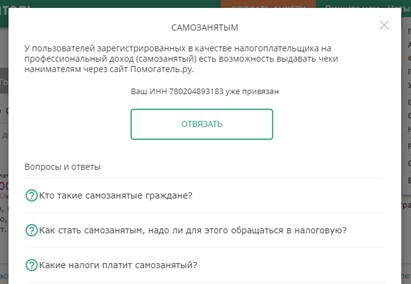
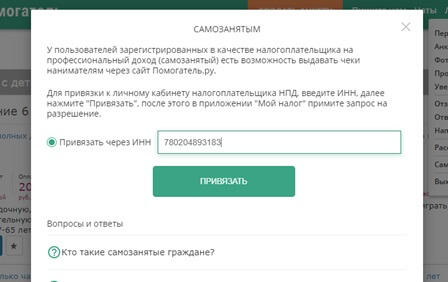
fix fns

Changed region(s): [[0.0, 0.0, 1.0, 1.0], [0.4088, 0.0851, 0.5839, 0.1135], [0.1168, 0.9929, 0.146, 1.0]]

diff --git a/example/fns/index.html b/example/fns/index.html
@@ -79,11 +79,12 @@
             </div>
             <div class="container-content">
                 <img src="img/fns1.jpg" alt="">
+                <img src="img/fns2.jpg" alt="">
             </div>
         </div>
         <div class="container">
             <div class="container-content order-2">
-                <img src="img/fns2.jpg" alt="">
+                <img src="img/fns3.jpg" alt="">
             </div>
             <div class="container-content order-1">
                 <p class="sub-title ">Регистрация завершена, осталось выдать чек:</p>
@@ -235,7 +236,7 @@
             </div>
             <div class="faq__block">
                 <div class="faq__question">
-                    <span class="icons icons--quest"></span> Самозанятые теперь должны сдвать отчеты в налоговую?
+                    <span class="icons icons--quest"></span> Самозанятые теперь должны сдавать отчеты в налоговую?
                 </div>
                 <div class="faq__answer">
                     <ul>
